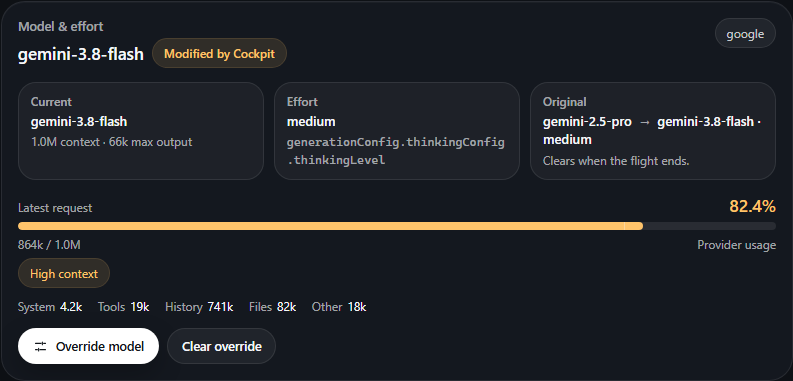
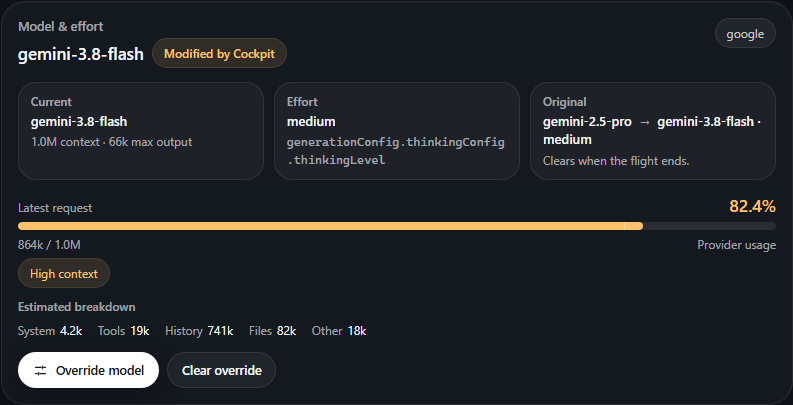
fix: label the context breakdown as estimated

diff --git a/ui/tests/e2e/phase9.spec.ts b/ui/tests/e2e/phase9.spec.ts
@@ -73,6 +73,12 @@ test.describe('model, effort, and context', () => {
     await expect(card).toContainText('gemini-2.5-pro');
     await expect(card).toContainText('82.4%');
     await expect(card.locator('[data-context-meter]')).toBeVisible();
+    // The provider reports a total, not a split, so the System/Tools/History/
+    // Files/Other rows are an estimate from the recorded request body.
+    await expect(card.locator('.context-meter__breakdown-label')).toHaveText(
+      'Estimated breakdown',
+    );
+    await expect(card.locator('.context-meter__breakdown')).toContainText('System');
     await shotOf(page, '.model-card', 'flight-model-effort.png');
 
     // The override is opt-in and the confirmation step explains exactly what

diff --git a/ui/src/lib/ContextMeter.svelte b/ui/src/lib/ContextMeter.svelte
@@ -62,7 +62,8 @@
     </div>
   {/if}
   {#if !compact}
-    <dl class="context-meter__breakdown">
+    <p class="context-meter__breakdown-label">{t('context.breakdownEstimated')}</p>
+    <dl class="context-meter__breakdown" aria-label={t('context.breakdownEstimated')}>
       <div><dt>{t('context.system')}</dt><dd>{formatTokens(meter.breakdown.system)}</dd></div>
       <div><dt>{t('context.tools')}</dt><dd>{formatTokens(meter.breakdown.tools)}</dd></div>
       <div><dt>{t('context.history')}</dt><dd>{formatTokens(meter.breakdown.history)}</dd></div>

diff --git a/ui/src/app.css b/ui/src/app.css
@@ -1699,11 +1699,18 @@ pre {
   gap: 6px;
 }
 
+.context-meter__breakdown-label {
+  margin: 4px 0 0;
+  color: var(--text-faint);
+  font-size: max(var(--text-min), calc(10.5px * var(--font-scale)));
+  font-weight: 560;
+}
+
 .context-meter__breakdown {
   display: flex;
   flex-wrap: wrap;
   gap: 8px 16px;
-  margin: 4px 0 0;
+  margin: 2px 0 0;
 }
 
 .context-meter__breakdown div {

diff --git a/ui/src/lib/i18n/catalog.ts b/ui/src/lib/i18n/catalog.ts
@@ -191,6 +191,7 @@ const en = {
   'context.history': 'History',
   'context.files': 'Files',
   'context.other': 'Other',
+  'context.breakdownEstimated': 'Estimated breakdown',
   'context.latest': 'Latest request',
   'context.perFlight': 'Latest per flight',
   'context.thisFlight': 'This flight',
